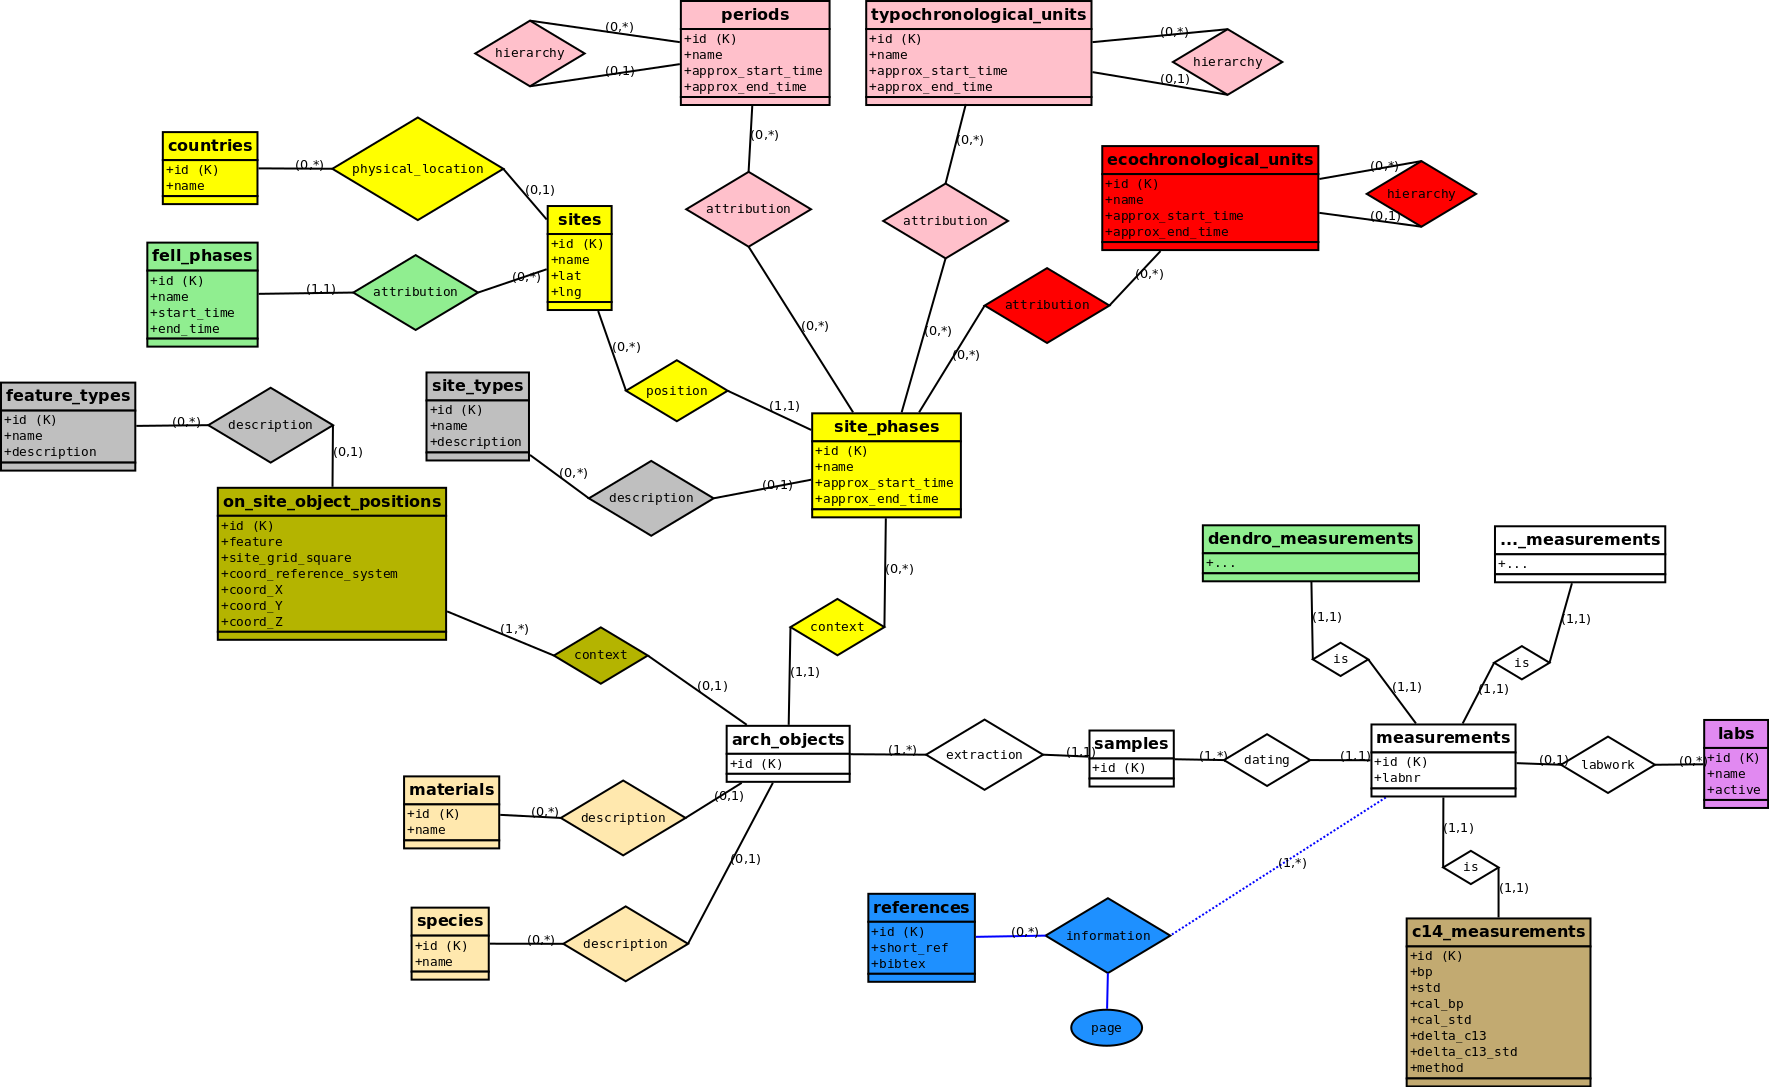
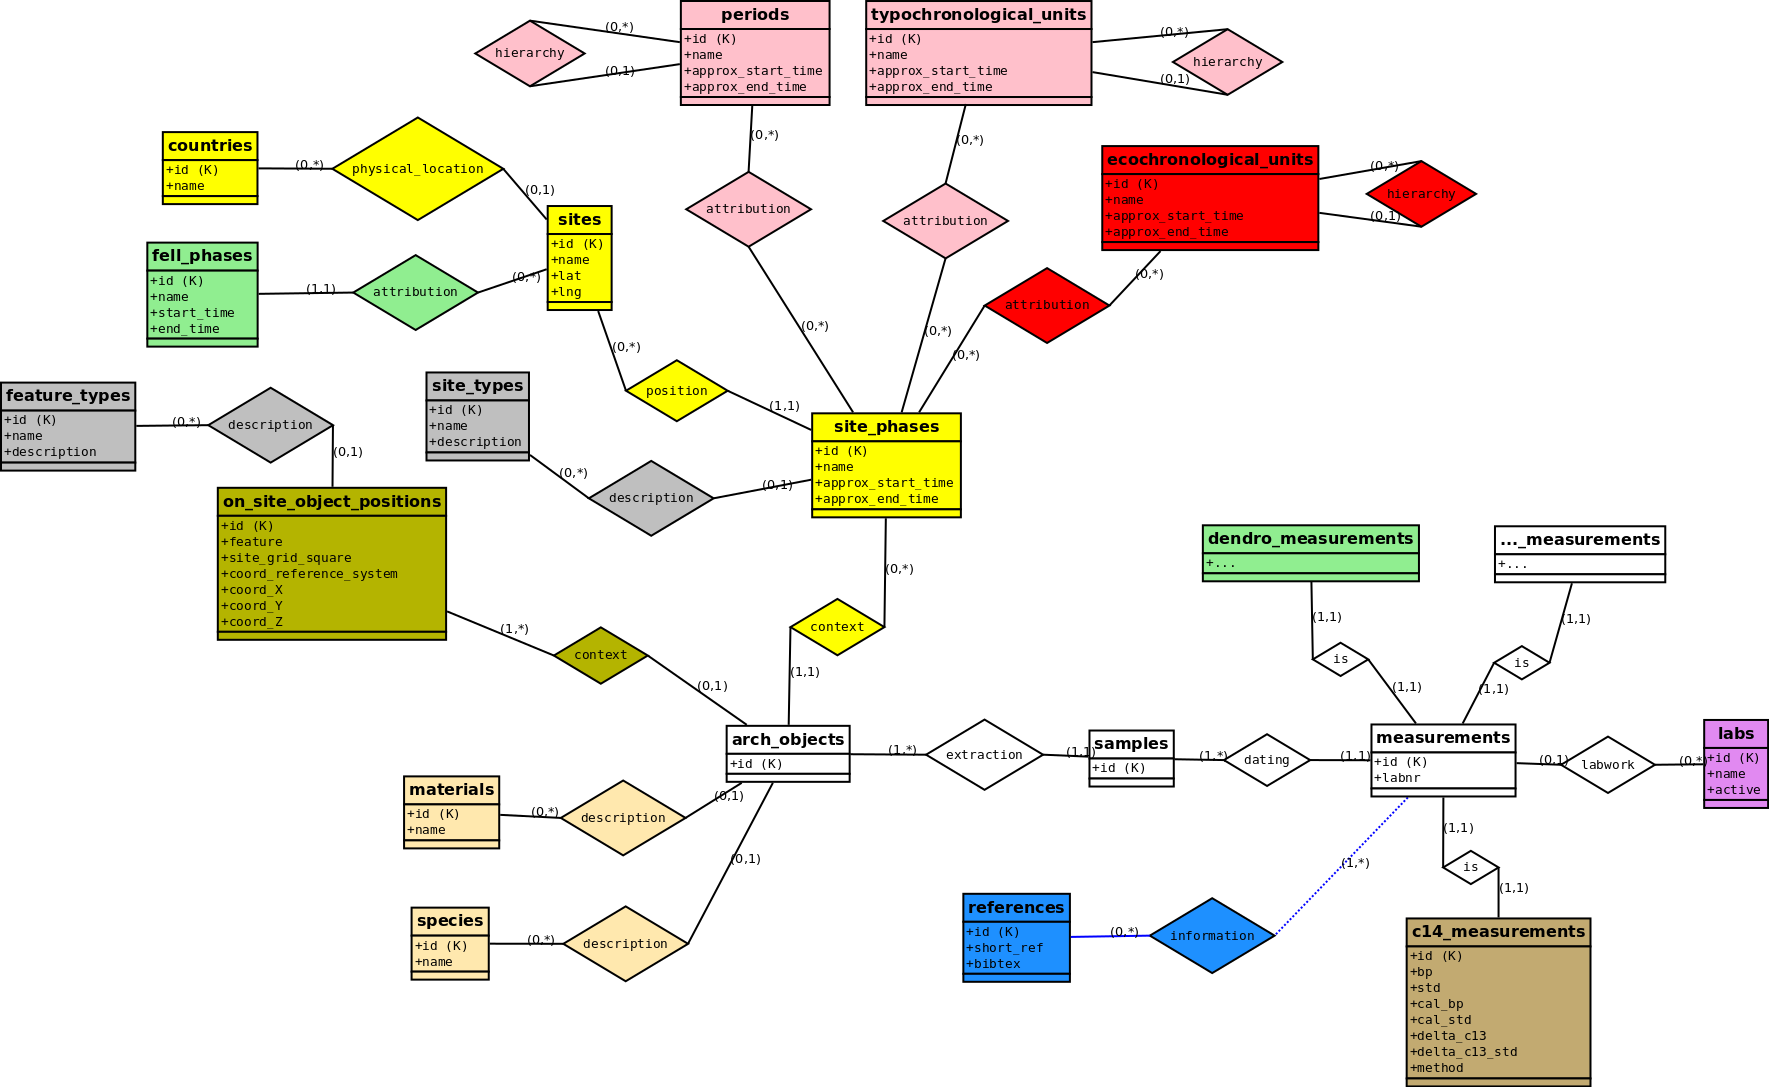
found a solution for the reference table problem

Changed region(s): [[0.4664, 0.8197, 0.7151, 0.9715]]

diff --git a/app/assets/javascripts/data.js b/app/assets/javascripts/data.js
@@ -38,11 +38,12 @@ jQuery(document).ready(function() {
       {"data": "period"},
       {"data": "typochronological_unit"},
       {"data": "ecochronological_unit"},
+      {"data": "material"},
+      {"data": "species"},
+      {"data": "country"},
       {"data": "lat"},
       {"data": "lng"},
-      {"data": "country"},
-      {"data": "material"},
-      {"data": "species"}
+      {"data": "short_ref"},
     ],
     "dom": 'Bfrtip',
     "buttons": [

diff --git a/app/assets/stylesheets/scaffolds.scss b/app/assets/stylesheets/scaffolds.scss
@@ -58,10 +58,12 @@ div {
 
 #error_explanation {
   width: 450px;
-  border: 2px solid red;
+  border: 2px solid #c00;
   padding: 7px 7px 0;
+  margin-top: 20px;
   margin-bottom: 20px;
-  background-color: #f0f0f0;
+  margin-left: 4px;
+  background-color: rgba(0, 0, 0, 0);
 
   h2 {
     text-align: left;

diff --git a/app/controllers/data_controller.rb b/app/controllers/data_controller.rb
@@ -118,9 +118,7 @@ class DataController < ApplicationController
     ##### select data #####
 
     # general dataset preparation
-    @all_measurements = Measurement.left_joins(
-      :c14_measurement, :references, :lab, sample: {arch_object: [{site_phase: [:site_type, {site: [:country, :fell_phases]}, :periods, :typochronological_units, :ecochronological_units]}, {on_site_object_position: :feature_type}, :material, :species]}
-    ).select(
+    @all_measurements = Measurement.left_joins( :c14_measurement, :references, :lab, sample: {arch_object: [{site_phase: [:site_type, {site: [:country, :fell_phases]}, :periods, :typochronological_units, :ecochronological_units]}, {on_site_object_position: :feature_type}, :material, :species]} ).select(
       "
       arch_objects.id as arch_object_id,
       measurements.id as measurement_id,
@@ -143,18 +141,22 @@ class DataController < ApplicationController
       group_concat(distinct typochronological_units.name) as typochronological_units_names,
       ecochronological_units.id as ecochronological_unit_id,
       group_concat(distinct ecochronological_units.name) as ecochronological_units_names,
-      sites.lat as lat,
-      sites.lng as lng,
-      countries.id as country_id,
-      countries.name as country,
       materials.id as material_id,
       materials.name as material,
       species.id as species_id,
-      species.name as species
+      species.name as species,
+      countries.id as country_id,
+      countries.name as country,
+      sites.lat as lat,
+      sites.lng as lng,
+      `references`.id as reference_id,
+      group_concat(distinct `references`.short_ref) as references_short_refs
       "
     ).all
 
-    # group_concat(periods.name, ', ') has to be replaced with string_agg(periods.name, ', ') for postgres in production
+    # group_concat(distinct references.short_ref) as references_short_refs
+
+    # group_concat has to be replaced with string_agg for postgres in production
 
     @selected_measurements = @all_measurements
 

diff --git a/app/datatables/selected_measurement_datatable.rb b/app/datatables/selected_measurement_datatable.rb
@@ -29,11 +29,12 @@ class SelectedMeasurementDatatable < AjaxDatatablesRails::ActiveRecord
       period: { source: "Period.name", cond: :like },
       typochronological_unit: { source: "TypochronologicalUnit.name", cond: :like },
       ecochronological_unit: { source: "EcochronologicalUnit.name", cond: :like },
+      material: { source: "Material.name", cond: :like },
+      species: { source: "Measurement.species", cond: :like },
+      country: { source: "Country.name", cond: :like },
       lat: { source: "Site.lat", cond: :like },
       lng: { source: "Site.lng", cond: :like },
-      country: { source: "Country.name", cond: :like },
-      material: { source: "Material.name", cond: :like },
-      species: { source: "Measurement.species", cond: :like }
+      short_ref: { source: "Reference.short_ref", cond: :like }
     }
   end
 
@@ -56,11 +57,12 @@ class SelectedMeasurementDatatable < AjaxDatatablesRails::ActiveRecord
         "period": record.periods_names, #Period.where(:id => record.period_id).pluck(:name).join(', '),
         "typochronological_unit": record.typochronological_units_names,
         "ecochronological_unit": record.ecochronological_units_names,
+        "material": best_in_place(Material.find(record.material_id), :name),
+        "species": best_in_place(Species.find(record.species_id), :name),
+        "country": best_in_place(Country.find(record.country_id), :name),
         "lat": best_in_place(Site.find(record.site_id), :lat),
         "lng": best_in_place(Site.find(record.site_id), :lng),
-        "country": best_in_place(Country.find(record.country_id), :name),
-        "material": best_in_place(Material.find(record.material_id), :name),
-        "species": best_in_place(Species.find(record.species_id), :name)
+        "short_ref": record.references_short_refs
       }
     end
   end

diff --git a/db/schema.rb b/db/schema.rb
@@ -10,7 +10,7 @@
 #
 # It's strongly recommended that you check this file into your version control system.
 
-ActiveRecord::Schema.define(version: 2019_08_06_081007) do
+ActiveRecord::Schema.define(version: 2019_08_06_141434) do
 
   create_table "arch_objects", force: :cascade do |t|
     t.datetime "created_at", null: false
@@ -96,6 +96,12 @@ ActiveRecord::Schema.define(version: 2019_08_06_081007) do
     t.index ["sample_id"], name: "index_measurements_on_sample_id"
   end
 
+  create_table "measurements_references", id: false, force: :cascade do |t|
+    t.integer "measurement_id", null: false
+    t.integer "reference_id", null: false
+    t.index ["measurement_id", "reference_id"], name: "index_mr"
+  end
+
   create_table "on_site_object_positions", force: :cascade do |t|
     t.string "feature"
     t.string "site_grid_square"
@@ -137,16 +143,6 @@ ActiveRecord::Schema.define(version: 2019_08_06_081007) do
     t.datetime "created_at", null: false
     t.datetime "updated_at", null: false
     t.string "short_ref"
-  end
-
-  create_table "references_measurements", force: :cascade do |t|
-    t.integer "reference_id"
-    t.integer "measurement_id"
-    t.string "page"
-    t.datetime "created_at", null: false
-    t.datetime "updated_at", null: false
-    t.index ["measurement_id"], name: "index_references_measurements_on_measurement_id"
-    t.index ["reference_id"], name: "index_references_measurements_on_reference_id"
   end
 
   create_table "samples", force: :cascade do |t|

diff --git a/app/controllers/measurements_controller.rb b/app/controllers/measurements_controller.rb
@@ -18,7 +18,6 @@ class MeasurementsController < ApplicationController
   def new
     @measurement = Measurement.new
     @measurement.references.build
-    @measurement.references_measurements.build
   end
 
   # GET /measurements/1/edit
@@ -95,16 +94,11 @@ class MeasurementsController < ApplicationController
           :active,
           :_destroy
         ],
-        :references_measurements_attributes => [
+        :references_attributes => [
           :id,
-          :page,
-          :_destroy,
-          :reference_attributes => [
-            :id,
-            :short_ref,
-            :bibtex,
-            :_destroy
-          ]
+          :short_ref,
+          :bibtex,
+          :_destroy
         ]
       )
     end

diff --git a/app/models/measurement.rb b/app/models/measurement.rb
@@ -6,11 +6,9 @@ class Measurement < ApplicationRecord
   accepts_nested_attributes_for :c14_measurement, reject_if: :all_blank
   validates_associated :c14_measurement
 
-  has_many :references_measurements, :dependent => :destroy
-  has_many :references, through: :references_measurements
-  accepts_nested_attributes_for :references_measurements, reject_if: :all_blank, :allow_destroy => true
-  accepts_nested_attributes_for :references
-  validates_associated :references_measurements
+  has_and_belongs_to_many :references
+  accepts_nested_attributes_for :references, reject_if: :all_blank
+  validates_associated :references
 
   def self.to_csv
     CSV.generate do |csv|

diff --git a/app/models/period.rb b/app/models/period.rb
@@ -1,6 +1,6 @@
 class Period < ApplicationRecord
-  has_and_belongs_to_many :site_phases
   validates :name, presence: true
+  has_and_belongs_to_many :site_phases
   belongs_to :parent, class_name: "Period", optional: true
   has_many :children, class_name: "Period", foreign_key: "parent_id"
 end

diff --git a/app/models/reference.rb b/app/models/reference.rb
@@ -1,6 +1,4 @@
 class Reference < ApplicationRecord
   validates :short_ref, presence: true
-
-  has_many :references_measurements, :dependent => :destroy
-  has_many :measurements, through: :references_measurements
+  has_and_belongs_to_many :site_phases
 end

diff --git a/db/migrate/20190806141434_create_join_table_measurements_references.rb b/db/migrate/20190806141434_create_join_table_measurements_references.rb
@@ -1,0 +1,7 @@
+class CreateJoinTableMeasurementsReferences < ActiveRecord::Migration[5.2]
+  def change
+    create_join_table :measurements, :references do |t|
+      t.index [:measurement_id, :reference_id], name: :index_mr
+    end
+  end
+end

diff --git a/db/migrate/20190806141244_remove_measurement_references.rb b/db/migrate/20190806141244_remove_measurement_references.rb
@@ -1,0 +1,5 @@
+class RemoveMeasurementReferences < ActiveRecord::Migration[5.2]
+  def change
+    drop_table :references_measurements
+  end
+end
